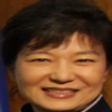
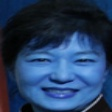
some update

diff --git a/build_ijbc.py b/build_ijbc.py
@@ -27,7 +27,7 @@ def to_image(arr):
         return Image.fromarray(arr)
 
 def alignface(img1, ):
-    img1 = Image.fromarray(img1)
+    # img1 = Image.fromarray(img1)
     try:
         face = detector.detect_faces(img1)
         # [{'box': [57, 71, 79, 97],
@@ -43,6 +43,7 @@ def alignface(img1, ):
         # Result is an array with all the bounding boxes detected. We know that for 'ivan.jpg' there is only one.
         face1 = img1[int(bounding_box[1]):int(bounding_box[1]) + int(bounding_box[3]),
                    int(bounding_box[0]):int(bounding_box[0]) + int(bounding_box[2])]
+        face1 = cv2.resize(img1, (112, 112))
         return face1, True
     except:
         logging.info(f'fail !! {img1}')
@@ -95,19 +96,22 @@ def process_ijbc_frames(path_to_frames,metadata_path,save_path):
         h = int(h)
 
         face = draw[y:y + h, x:x + w]
+
         alignface_img,isSuccess = alignface(face)
         cv2.imwrite(save_path+frame_id, alignface_img)
 
     print("SUCCESS!!!!!")
 
 def main(_):
-    path_to_frames = '/media/Storage/facedata/ijbc/images/'
-    metadata_path = '/media/Storage/facedata/ijbc/protocols/ijbc_1N_probe_mixed.csv'
-    save_path = '/media/Storage/facedata/ijbc/images_cropped/'
+    root_path = '/media/Storage/facedata/ijbc/'
+    # root_path = '/media/charles/Storage/CropAlignFace/data/IJB-C/'
+    path_to_frames = root_path + 'images/'
+    metadata_path = root_path + 'protocols/ijbc_1N_probe_mixed.csv'
+    save_path = root_path + 'images_cropped/'
     process_ijbc_frames(path_to_frames,metadata_path,save_path)
-    metadata_path = '/media/Storage/facedata/ijbc/protocols/ijbc_1N_gallery_G1.csv'
+    metadata_path = root_path + 'protocols/ijbc_1N_gallery_G1.csv'
     process_ijbc_frames(path_to_frames,metadata_path,save_path)
-    metadata_path = '/media/Storage/facedata/ijbc/protocols/ijbc_1N_gallery_G2.csv'
+    metadata_path = root_path + 'protocols/ijbc_1N_gallery_G2.csv'
     process_ijbc_frames(path_to_frames,metadata_path,save_path)
 
 
